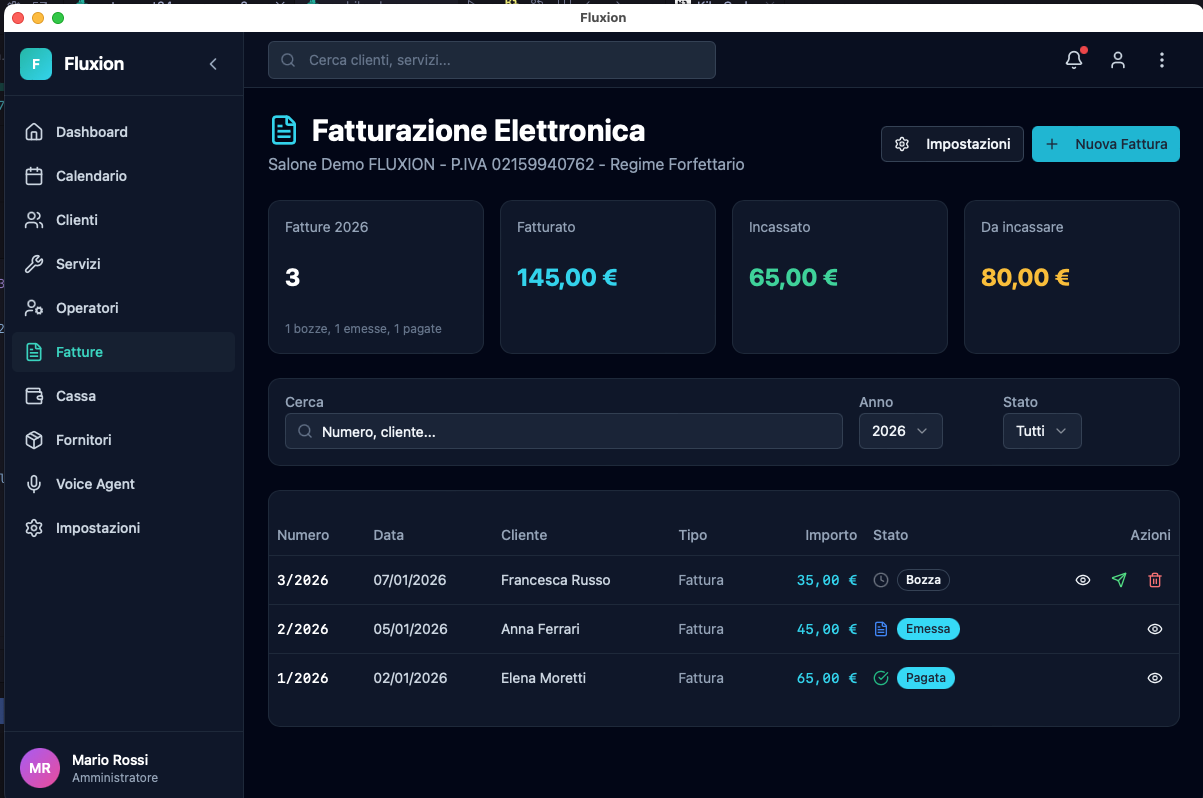
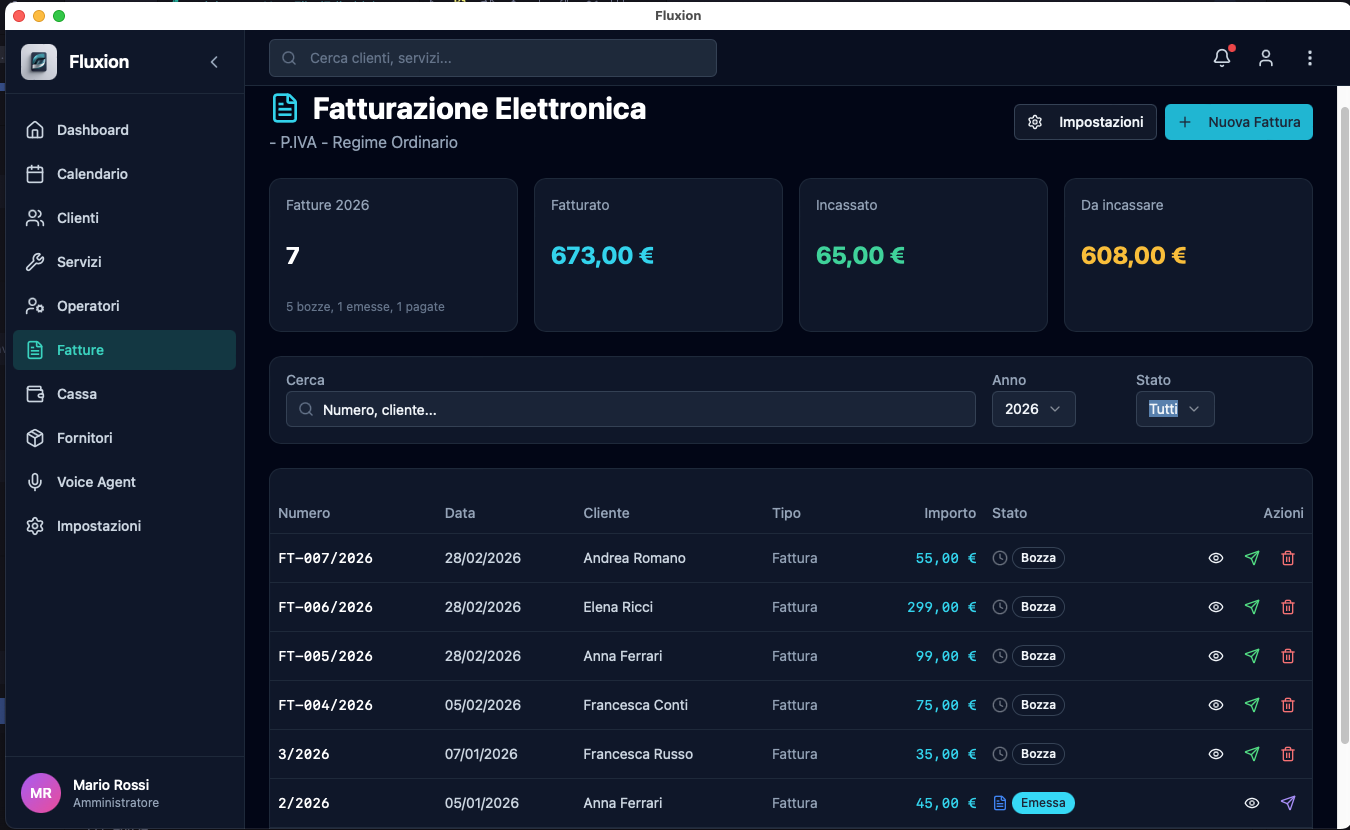
feat(landing): screenshots reali app D1 — 9 screen marzo 2026
Sostituiti placeholder con screenshots reali da Fluxion v0.9.2:
- fx_calendario.png: vista mensile multi-operatore (Marzo 2026)
- fx_operatori.png: 5 operatori con KPI Completati/Fatturato/No-show
- fx_fatture.png: 7 fatture, €673 fatturato, badge Bozza/Emessa
- fx_scheda_cliente.png: tessera fedeltà VIP Giuseppe Bianchi 3/10 visite
- fx_cassa.png: cassa giornaliera Contanti/Carte/Satispay
- fx_servizi.png: 7 servizi con prezzi, durate, colori IVA 22%
- fx_dashboard.png: anagrafica cliente completa
+ aggiunti: fx_pacchetti, fx_scheda_dati, fx_servizio_edit (extra)
Didascalie landing allineate ai dati reali degli screenshot.

diff --git a/landing/index.html b/landing/index.html
@@ -669,7 +669,7 @@
             loading="lazy"
           >
         </div>
-        <p class="text-center text-slate-500 text-sm mt-4">Calendario appuntamenti multi-operatore — Filippo Alberti, Di Nanni e altri in vista mensile</p>
+        <p class="text-center text-slate-500 text-sm mt-4">Calendario multi-operatore — Filippo Alberti, Gigio Peruzzi, Giovanni Marini e altri — tutto in vista mensile</p>
       </div>
 
       <!-- GRID 4 smaller screenshots -->
@@ -683,8 +683,8 @@
             loading="lazy"
           >
           <div class="screenshot-card-body">
-            <p class="screenshot-card-title">Fatture e FatturaPA</p>
-            <p class="screenshot-card-desc">Emetti e invia al SDI con un click — XML FatturaPA generato in automatico, codice fiscale e partita IVA già pronti.</p>
+            <p class="screenshot-card-title">Fatturazione Elettronica</p>
+            <p class="screenshot-card-desc">7 fatture 2026, €673 fatturato, €65 incassato — invia al SDI con un click, XML FatturaPA generato in automatico.</p>
           </div>
         </div>
 
@@ -709,8 +709,8 @@
             loading="lazy"
           >
           <div class="screenshot-card-body">
-            <p class="screenshot-card-title">Scheda cliente</p>
-            <p class="screenshot-card-desc">Sara Colombo — telefono, email, tab Dati, Fedelta' e Pacchetti in un'unica vista.</p>
+            <p class="screenshot-card-title">Fedelta' e tessera VIP</p>
+            <p class="screenshot-card-desc">Giuseppe Bianchi — 3/10 visite completate, badge VIP attivo, 7 visite alla prossima ricompensa.</p>
           </div>
         </div>
 
@@ -740,8 +740,8 @@
             loading="lazy"
           >
           <div class="screenshot-card-body">
-            <p class="screenshot-card-title">Dashboard KPI</p>
-            <p class="screenshot-card-desc">31 clienti attivi, Taglio Uomo servizio top — tutto il mese a colpo d'occhio.</p>
+            <p class="screenshot-card-title">Anagrafica clienti</p>
+            <p class="screenshot-card-desc">Giuseppe Bianchi — scheda completa con anagrafica, indirizzo, dati fiscali, soprannome WhatsApp e data di nascita.</p>
           </div>
         </div>
 
@@ -754,7 +754,7 @@
           >
           <div class="screenshot-card-body">
             <p class="screenshot-card-title">Lista servizi con prezzi</p>
-            <p class="screenshot-card-desc">Barba €12, Colore €45, Meches €65, Piega €20, Taglio Donna €35, Taglio Uomo €18 — IVA inclusa.</p>
+            <p class="screenshot-card-desc">Barba €12, Colore €45, Meches/Balayage €65, Taglio Donna €35, Taglio Uomo €18 — IVA 22%, durata e colore per ogni servizio.</p>
           </div>
         </div>
 
